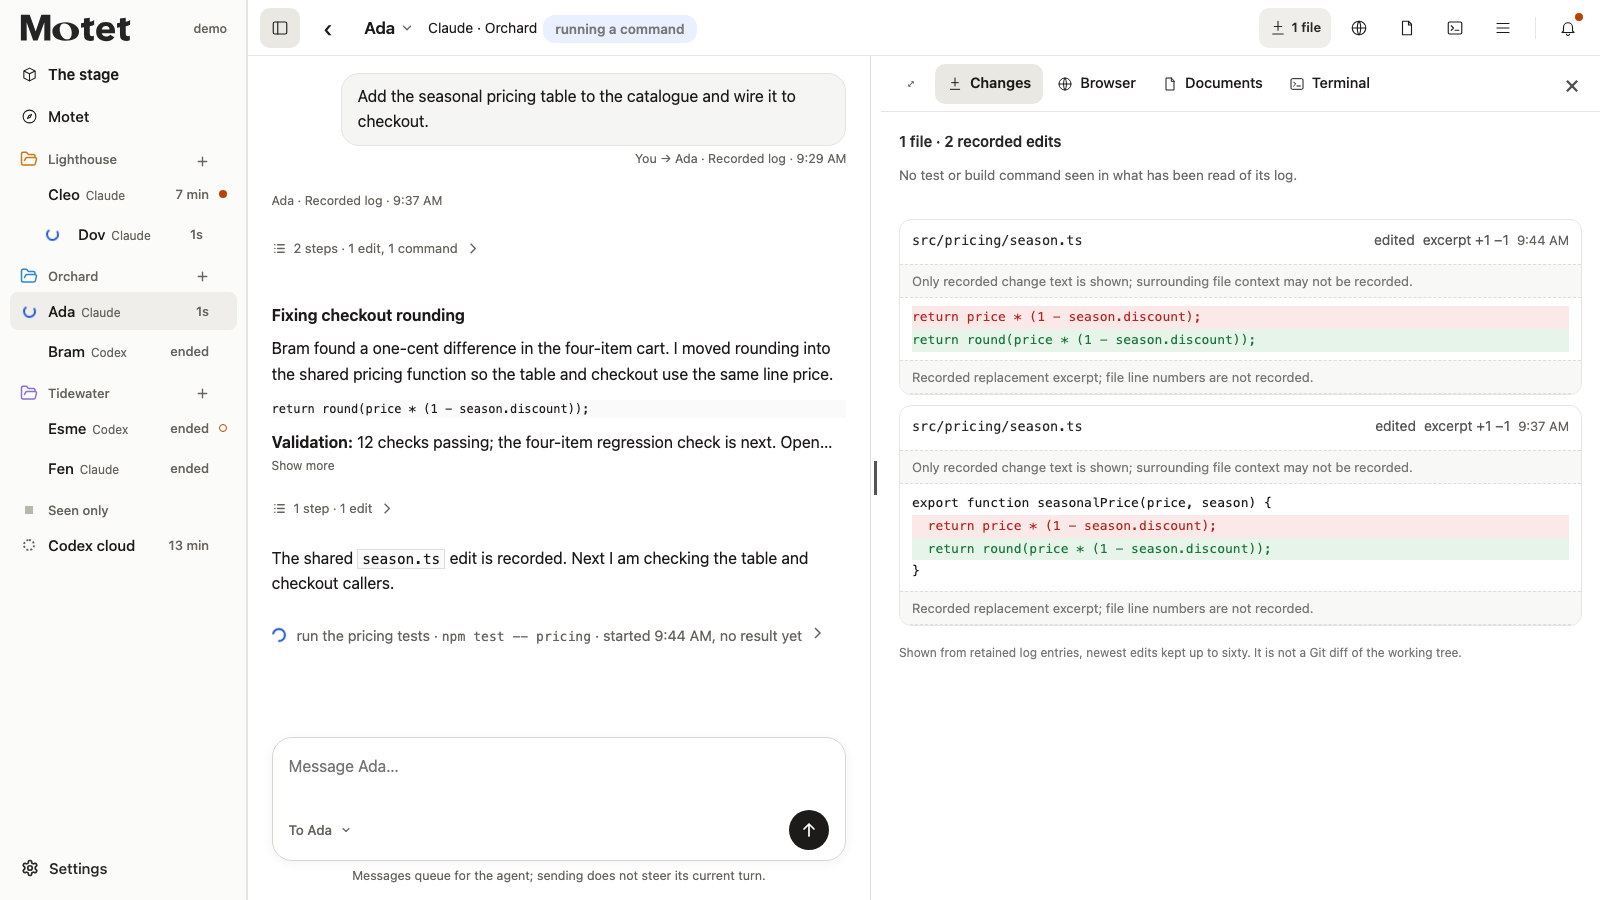
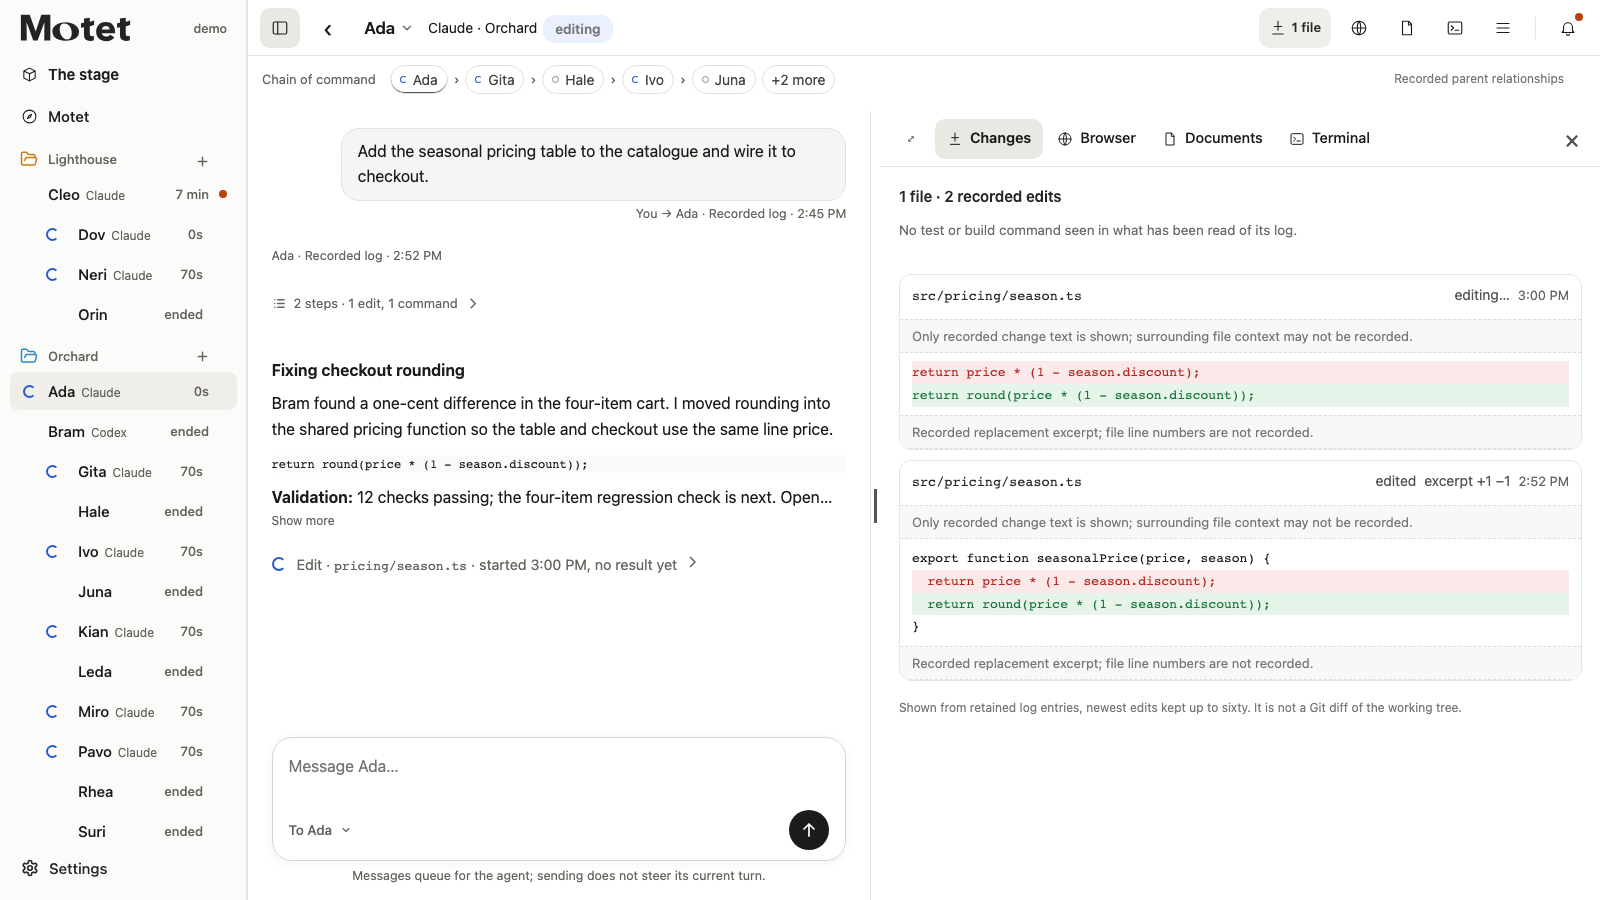
Make Workspace demo captures repeatable and refresh the pictures

diff --git a/brand/tools/capture-demo.js b/brand/tools/capture-demo.js
@@ -1,30 +1,228 @@
-// Run with Playwright available in NODE_PATH and src/web served on localhost:18794.
-const {chromium}=require('playwright');
-const fs=require('fs');const path=require('path');
-(async()=>{
- const browser=await chromium.launch({headless:true,executablePath:'/Applications/Google Chrome.app/Contents/MacOS/Google Chrome'});
- const page=await browser.newPage({viewport:{width:1600,height:825},deviceScaleFactor:1});
- await page.addInitScript(()=>{if(window===window.top)localStorage.setItem('liveRoomHinted','1')});
- const errors=[];page.on('pageerror',e=>errors.push(String(e)));
- await page.goto('http://127.0.0.1:18794/?demo');await page.waitForTimeout(1800);
- const root=path.resolve(__dirname,'../..');
- const out=path.join(root,'docs/media');
- await page.screenshot({path:path.join(out,'demo-room.png')});
- const geometry=await page.locator('#mark').evaluate(e=>({width:e.getBoundingClientRect().width,height:e.getBoundingClientRect().height,loaded:e.complete&&e.naturalWidth>0,url:e.getAttribute('src')}));
- await page.evaluate(()=>{cam.yaw=pos['c:demo-cleo'].a;apply();});await page.waitForTimeout(700);
- await page.evaluate(()=>setPeek('c:demo-cleo'));await page.waitForTimeout(1000);
- await page.screenshot({path:path.join(out,'demo-held.png')});
- await page.evaluate(()=>setFocus('c:demo-cleo'));await page.waitForTimeout(1200);
- await page.screenshot({path:path.join(out,'demo-desk.png')});
- await page.evaluate(()=>setFocus(null));await page.waitForTimeout(700);
- const frames=fs.mkdtempSync('/tmp/watch-brand-demo-');
- for(let i=0;i<60;i++){
-  if(i===15)await page.evaluate(()=>setPeek('c:demo-cleo'));
-  if(i===30)await page.evaluate(()=>setFocus('c:demo-cleo'));
-  if(i===50)await page.evaluate(()=>setFocus(null));
-  await page.screenshot({path:path.join(frames,`${String(i).padStart(3,'0')}.png`)});await page.waitForTimeout(100);
- }
- console.log(JSON.stringify({geometry,errors,frames}));
- await browser.close();
- if(errors.length)process.exitCode=1;
-})().catch(e=>{console.error(e);process.exit(1)});
+// Capture the built-in fictional demo with an installed Playwright and browser.
+// Usage is documented in capture-demo.md. This script never starts the Motet server.
+const assert = require('node:assert/strict');
+const crypto = require('node:crypto');
+const fs = require('node:fs');
+const http = require('node:http');
+const path = require('node:path');
+const os = require('node:os');
+const {execFileSync} = require('node:child_process');
+const {chromium} = require('playwright');
+
+const root = path.resolve(__dirname, '../..');
+const web = path.join(root, 'src/web');
+const fixedTime = Date.parse('2026-11-20T15:00:00.000Z');
+const forbiddenPorts = new Set([8793, 18879, 18959]);
+
+function argumentsForCapture(argv) {
+  const options = {browser: process.env.MOTET_CAPTURE_BROWSER, port: 0};
+  const names = new Set(['browser', 'output', 'phone', 'metadata', 'port']);
+  for (let index = 0; index < argv.length; index += 2) {
+    const name = argv[index]?.replace(/^--/, '');
+    if (!argv[index]?.startsWith('--') || !names.has(name) || !argv[index + 1]) {
+      throw Error('Use --browser, --output, --phone, --metadata and optional --port.');
+    }
+    options[name] = argv[index + 1];
+  }
+  for (const name of ['browser', 'output', 'phone', 'metadata']) {
+    if (!options[name]) throw Error('Missing --' + name + '.');
+    options[name] = path.resolve(options[name]);
+  }
+  options.port = Number(options.port);
+  if (!Number.isInteger(options.port) || options.port < 0 || options.port > 65535 || forbiddenPorts.has(options.port)) {
+    throw Error('Choose port 0 or an unoccupied port other than 8793, 18879 or 18959.');
+  }
+  for (const name of ['phone', 'metadata']) {
+    if (options[name] === root || options[name].startsWith(root + path.sep)) {
+      throw Error('--' + name + ' must be in a private scratch folder outside the repository.');
+    }
+  }
+  return options;
+}
+
+function initializeCapture({timestamp}) {
+  if (window !== window.top) return;
+  const NativeDate = Date;
+  class CaptureDate extends NativeDate {
+    constructor(...args) { super(...(args.length ? args : [timestamp])); }
+    static now() { return timestamp; }
+  }
+  window.Date = CaptureDate;
+  // demo() emits its first tick immediately. Keep that exact fictional moment.
+  const interval = window.setInterval.bind(window);
+  window.setInterval = (callback, delay, ...args) => {
+    if (delay === 3500 || delay === 3000) return 0;
+    return interval(callback, delay, ...args);
+  };
+  window.captureAudit = [];
+  const refuse = name => () => {
+    window.captureAudit.push(name);
+    throw Error('Unexpected operation during demo capture: ' + name);
+  };
+  window.fetch = refuse('fetch');
+  XMLHttpRequest.prototype.open = refuse('XMLHttpRequest');
+  window.EventSource = refuse('EventSource');
+  window.WebSocket = refuse('WebSocket');
+  window.Worker = refuse('Worker');
+  window.SharedWorker = refuse('SharedWorker');
+  navigator.sendBeacon = refuse('sendBeacon');
+  if (navigator.serviceWorker) navigator.serviceWorker.register = refuse('serviceWorker.register');
+  if (navigator.mediaDevices) {
+    navigator.mediaDevices.getUserMedia = refuse('getUserMedia');
+    navigator.mediaDevices.getDisplayMedia = refuse('getDisplayMedia');
+  }
+  if (navigator.permissions) navigator.permissions.query = refuse('permissions.query');
+  if (navigator.geolocation) {
+    navigator.geolocation.getCurrentPosition = refuse('geolocation');
+    navigator.geolocation.watchPosition = refuse('geolocation.watch');
+  }
+  class CaptureNotification {
+    static permission = 'default';
+    static requestPermission = refuse('Notification.requestPermission');
+    constructor() { refuse('Notification')(); }
+  }
+  window.Notification = CaptureNotification;
+  window.open = refuse('window.open');
+  Storage.prototype.setItem = refuse('storage.setItem');
+  Storage.prototype.removeItem = refuse('storage.removeItem');
+  Storage.prototype.clear = refuse('storage.clear');
+}
+
+async function settled(page) {
+  await page.evaluate(async () => {
+    await document.fonts.ready;
+    await Promise.all([...document.images].map(image => image.decode().catch(() => {})));
+  });
+  let previous = '', unchanged = 0;
+  for (let sample = 0; sample < 60; sample++) {
+    const signature = await page.evaluate(() => JSON.stringify(
+      [...document.querySelectorAll('#world, .st, #compactDesk')].map(element => {
+        const box = element.getBoundingClientRect();
+        return [getComputedStyle(element).transform, box.x, box.y, box.width, box.height];
+      })
+    ));
+    unchanged = signature === previous ? unchanged + 1 : 0;
+    if (unchanged >= 4) return;
+    previous = signature;
+    await page.waitForTimeout(100);
+  }
+  throw Error('The stage transforms did not settle.');
+}
+
+async function capture(options) {
+  const requests = [], violations = [], failures = [], errors = [], screenshots = [];
+  const staticPaths = new Set(['/', ...fs.readdirSync(web).filter(name => /\.(?:js|css|html)$/.test(name)).map(name => '/' + name),
+    ...fs.readdirSync(path.join(web, 'static')).map(name => '/static/' + name)]);
+  const types = {'.html': 'text/html', '.js': 'text/javascript', '.css': 'text/css',
+    '.svg': 'image/svg+xml', '.png': 'image/png', '.ico': 'image/x-icon', '.woff2': 'font/woff2'};
+  const server = http.createServer((request, response) => {
+    try {
+      const url = new URL(request.url, 'http://127.0.0.1');
+      const name = url.pathname === '/' ? 'index.html' : decodeURIComponent(url.pathname.slice(1));
+      const file = fs.realpathSync(path.resolve(web, name));
+      const type = types[path.extname(file)];
+      if (request.method !== 'GET' || !staticPaths.has(url.pathname) || !file.startsWith(web + path.sep) || !type || !fs.statSync(file).isFile()) {
+        throw Error('Unexpected static request.');
+      }
+      response.writeHead(200, {'Content-Type': type, 'Cache-Control': 'no-store'});
+      response.end(fs.readFileSync(file));
+    } catch {
+      violations.push({method: request.method, path: request.url});
+      response.writeHead(404).end();
+    }
+  });
+  let browser;
+  try {
+    await new Promise((resolve, reject) => {
+      server.once('error', reject);
+      server.listen(options.port, '127.0.0.1', resolve);
+    });
+    const port = server.address().port;
+    assert(!forbiddenPorts.has(port), 'The assigned port must be outside the reserved set.');
+    const origin = 'http://127.0.0.1:' + port;
+    browser = await chromium.launch({headless: true, executablePath: options.browser,
+      args: ['--disable-gpu', '--force-color-profile=srgb']});
+    const context = await browser.newContext({viewport: {width: 1600, height: 900}, deviceScaleFactor: 1,
+      locale: 'en-US', timezoneId: 'UTC', colorScheme: 'light', reducedMotion: 'reduce',
+      permissions: [], acceptDownloads: false});
+    await context.addInitScript(initializeCapture, {timestamp: fixedTime});
+    await context.route('**/*', async route => {
+      const request = route.request(), url = new URL(request.url());
+      requests.push({method: request.method(), path: url.pathname});
+      if (url.origin !== origin || request.method() !== 'GET' || !staticPaths.has(url.pathname)) {
+        violations.push({method: request.method(), origin: url.origin, path: url.pathname});
+        await route.abort();
+      } else await route.continue();
+    });
+    const page = await context.newPage();
+    page.on('pageerror', error => errors.push(error.message));
+    page.on('requestfailed', request => failures.push({path: new URL(request.url()).pathname,
+      error: request.failure()?.errorText}));
+    page.on('dialog', async dialog => { violations.push({dialog: dialog.type()}); await dialog.dismiss(); });
+    await page.goto(origin + '/?ui=workspace&demo', {waitUntil: 'load'});
+    await page.waitForFunction(() => typeof A !== 'undefined' && Object.keys(A).length === 22);
+    await page.mouse.move(1599, 0);
+    const cast = await page.evaluate(() => Object.values(A).map(agent => ({id: agent.id, name: agent.name,
+      parent: agent.parent || null, project: proj(agent.id), turn: agent.turn, observed: !!agent.observed})));
+    const domain = () => page.evaluate(() => JSON.stringify(Object.values(A).map(agent => ({
+      id: agent.id, name: agent.name, parent: agent.parent || null, sub: !!agent.sub,
+      runtime: agent.runtime, cwd: agent.cwd, turn: agent.turn, observed: agent.observed,
+      calls: agent.calls, permissions: agent.perms, story: agent.story
+    })), (name, value) => value instanceof Node ? undefined : value));
+    const initialDomain = await domain();
+    const stateSha256 = crypto.createHash('sha256').update(initialDomain).digest('hex');
+    const shot = async (name, destination) => {
+      await settled(page);
+      assert.equal(await domain(), initialDomain, 'The fictional cast and moment must match at every capture.');
+      await page.screenshot({path: destination, animations: 'disabled', caret: 'hide'});
+      const bytes = fs.readFileSync(destination);
+      const view = await page.evaluate(() => ({viewport: {width: innerWidth, height: innerHeight},
+        horizontalOverflow: document.documentElement.scrollWidth > innerWidth,
+        focus: typeof focus === 'string' ? focus : null,
+        panel: typeof WSP !== 'undefined' ? WSP.mode : null}));
+      screenshots.push({name, view, stateSha256, width: bytes.readUInt32BE(16), height: bytes.readUInt32BE(20),
+        sha256: crypto.createHash('sha256').update(bytes).digest('hex')});
+    };
+    fs.mkdirSync(options.output, {recursive: true});
+    fs.mkdirSync(path.dirname(options.phone), {recursive: true});
+    await shot('workspace-room.png', path.join(options.output, 'workspace-room.png'));
+    await page.evaluate(() => setFocus('c:demo-ada'));
+    await page.locator('#workspacePanels [data-panel="changes"]').click();
+    await shot('workspace-desk.png', path.join(options.output, 'workspace-desk.png'));
+    await page.setViewportSize({width: 390, height: 844});
+    await page.evaluate(() => { if (DESK.open) deskCloseWork(); });
+    await page.mouse.move(389, 0);
+    await shot('workspace-desk-phone.png', options.phone);
+    await page.setViewportSize({width: 1600, height: 900});
+    await page.evaluate(() => workspaceOfficerDeskOpen());
+    await page.locator('#ofQuick [data-q="Who is waiting on me?"]').click();
+    await page.waitForFunction(() => !OF.busy && ofLog.textContent.includes('Scripted demo answer'));
+    await page.evaluate(() => { ofLog.scrollTop = 0; });
+    await page.mouse.move(1599, 0);
+    await shot('workspace-motet.png', path.join(options.output, 'workspace-motet.png'));
+    violations.push(...await page.evaluate(() => window.captureAudit));
+    assert.deepEqual({violations, failures, errors}, {violations: [], failures: [], errors: []}, 'Demo capture audit');
+    const metadata = {schemaVersion: 1, recipe: 'workspace-full-stage-v1',
+      commit: execFileSync('git', ['rev-parse', 'HEAD'], {cwd: root, encoding: 'utf8'}).trim(),
+      sourceSha256: crypto.createHash('sha256').update(fs.readFileSync(path.join(web, 'index.html'))).digest('hex'),
+      platform: {name: process.platform, architecture: process.arch, release: os.release(), node: process.version},
+      fonts: await page.evaluate(() => [...new Set([...document.querySelectorAll('body, button, textarea, code')].map(element => getComputedStyle(element).fontFamily))].sort()),
+      browser: browser.version(), browserArguments: ['--disable-gpu', '--force-color-profile=srgb'], playwright: require('playwright/package.json').version,
+      fixedTime: new Date(fixedTime).toISOString(), initialDemoTicks: 1, deviceScaleFactor: 1,
+      locale: 'en-US', timezone: 'UTC', reducedMotion: 'reduce', cast, screenshots, requests,
+      audit: {violations, failures, errors}};
+    fs.mkdirSync(path.dirname(options.metadata), {recursive: true});
+    fs.writeFileSync(options.metadata, JSON.stringify(metadata, null, 2) + '\n');
+    console.log(JSON.stringify({agents: cast.length, browser: metadata.browser, screenshots, audit: metadata.audit}));
+  } finally {
+    if (browser) await browser.close();
+    await new Promise(resolve => server.close(resolve));
+  }
+}
+
+if (process.argv.includes('--help')) {
+  console.log('node brand/tools/capture-demo.js --browser <installed-chromium> --output <folder> --phone <private-png> --metadata <private-json> [--port 0]');
+} else Promise.resolve().then(() => capture(argumentsForCapture(process.argv.slice(2)))).catch(error => {
+  console.error(error.message);
+  process.exitCode = 1;
+});

diff --git a/brand/tools/capture-demo.md b/brand/tools/capture-demo.md
@@ -1,0 +1,33 @@
+# Workspace demo captures
+
+Run this recipe after the demo data has passed review. It captures the built-in fictional demo from the current checkout and never runs the application server. An existing Playwright package and an installed Chromium browser are required. Set `NODE_PATH` when Playwright is provided by a separate local runtime.
+
+```sh
+node brand/tools/capture-demo.js \
+  --browser /path/to/installed/chromium \
+  --output /path/to/private/capture-folder \
+  --phone /path/to/private/capture-folder/workspace-desk-phone.png \
+  --metadata /path/to/private/capture-folder/capture.json
+```
+
+The output folder receives `workspace-room.png`, `workspace-desk.png` and `workspace-motet.png`, each at 1600 × 900. The phone capture is Ada's conversation at 390 × 844. Review every picture before copying the three desktop files into `docs/media/`. The phone image and metadata belong in a private scratch folder outside the checkout.
+
+The recipe binds its own static server to `127.0.0.1` on an automatically assigned port. An optional `--port` selects a spare port. It refuses 8793, 18879 and 18959. The browser binary can also be supplied through `MOTET_CAPTURE_BROWSER`.
+
+Each run uses a fresh browser context, scale factor 1, English labels, UTC, light theme and reduced motion. Chromium runs with software rendering and an sRGB color profile. A script injected before page startup fixes the clock at 20 November 2026, 15:00 UTC and holds the demo at its first synthetic tick. The product's source, styles, camera settings and interactions are used as written. The script waits for fonts, image decoding and settled stage transforms. It moves the pointer above the stage and hides the text caret while capturing.
+
+The sequence is the stage, Ada's Changes panel, Ada's phone conversation, then Motet's desk answering “Who is waiting on me?” from the same fictional moment. Network requests are restricted to static files on the temporary server. Dynamic fetches, connections, storage writes, microphone access, notification requests and other permission calls fail the capture audit. Before every picture, the recipe checks that the cast, parent relationships, turns, commands, permissions and recorded stories still match the first picture. The JSON metadata records the commit, source hash, actual browser and Playwright versions, operating system, computed font families, clock, cast, request paths, audit and image hashes. Review the audit before publication.
+
+Repeat captures using the same commit, browser build, Playwright version and operating-system fonts. Runtime metadata identifies those conditions. Matching output across different browser or font environments is not guaranteed. The six Classic images in `docs/TOUR.md` have a separately approved later recapture step.
+
+## Check inertness and compare the baseline
+
+With an existing Playwright runtime available, the companion check compares the current page with a private export of the seven-agent baseline.
+
+```sh
+node brand/tools/check-demo.cjs \
+  --baseline /path/to/private/baseline/src/web \
+  --output /path/to/private/demo-check.json
+```
+
+It observes the demo's guarded operations and profiles the real scripted tick plus render, and navigation across two animation frames. The automatic 3500 ms tick is suppressed and its real callback is invoked for each timing sample. Two paired runs reverse the baseline/candidate order and omit four warmups per run. The report records CPU and navigation latency samples, median and p95. Those measurements are not a frames-per-second benchmark.

diff --git a/README.md b/README.md
@@ -15,7 +15,7 @@
 </p>
 
 <p align="center">
-  <img src="docs/media/workspace-room.png" width="1000" alt="The Motet stage in the Workspace interface. A sidebar lists fictional agents under three projects, each with the app it runs in and a time or the word ended; one has an orange dot because it needs you. On the stage, the agents' screens stand side by side on a light floor. Motet's question box sits at the bottom with three suggested questions.">
+  <img src="docs/media/workspace-room.png" width="1000" alt="The Motet stage in Workspace with 22 fictional agents. Large front monitors and smaller child monitors form several rows on a light floor, with project names below and edge stations partly outside the view. The sidebar groups agents by project. Motet's question box and three suggested questions sit at the bottom.">
 </p>
 
 You have several agents playing at once: Claude Code on one part, Codex on another, Cursor on a third. Each is good alone, but nobody is keeping them together. You find out an agent stopped to ask a question twenty minutes after it asked.
@@ -61,7 +61,7 @@ When you want to look for yourself, every agent is in view.
 - **Bring a player in.** Message an agent from its desk, hand it a PDF or a picture, or start a fresh Codex chat in a project's folder, including a folder you add yourself.
 - **Catch the wrong note.** A command that looks like a deploy, a push, a delete or a send is flagged as it happens. You choose the words it listens for.
 
-<p align="center"><img src="docs/media/workspace-desk.png" width="1000" alt="Ada's desk in Workspace. The conversation is on the left: your request, a folded run of steps, Ada's update and a command still running. The Changes panel on the right shows two recorded edits to one file as short red and green excerpts, each noting that only the recorded change text is shown."></p>
+<p align="center"><img src="docs/media/workspace-desk.png" width="1000" alt="Ada's desk in Workspace. The chain of command shows Ada and her fictional children. The conversation on the left contains your pricing request, a folded run of steps, Ada's rounding update and an edit in progress. The Changes panel on the right shows two recorded edits to one file as red and green excerpts."></p>
 <p align="center"><sub><b>A desk.</b> The conversation, with the work it produced beside it. Fictional demo data.</sub></p>
 
 ## Bring the subscriptions you already have

diff --git a/docs/TOUR.md b/docs/TOUR.md
@@ -17,7 +17,7 @@ The [plain address](http://127.0.0.1:8793/) opens Workspace on desktop and phone
 
 Workspace brings the stage sidebar, notification bell, monitor contents, conversation desks and Settings into one light interface. Stage movement and interactions stay the same. The bottom caption strip is omitted; each agent’s sidebar tooltip carries its caption and recorded or inferred qualifications. Opening the notification bell shows existing requests and recorded alerts. The **Notify me** control remains separate in Settings.
 
-<p align="center"><img src="media/workspace-desk.png" width="1000" alt="Ada's desk in Workspace. The conversation is on the left: your request, a folded run of steps, Ada's update and a command still running. The Changes panel on the right shows two recorded edits to one file as short red and green excerpts, each noting that only the recorded change text is shown."></p>
+<p align="center"><img src="media/workspace-desk.png" width="1000" alt="Ada's desk in Workspace. The chain of command shows Ada and her fictional children. The conversation on the left contains your pricing request, a folded run of steps, Ada's rounding update and an edit in progress. The Changes panel on the right shows two recorded edits to one file as red and green excerpts."></p>
 <p align="center"><sub><b>An agent's desk in Workspace.</b> The conversation on the left, recorded changes on the right. Fictional demo data.</sub></p>
 
 Choose **Motet** in the sidebar for its desk. **Recorded days · UTC** opens retained Motet questions and answers when memory recording has captured them. Saved days are read-only: browsing them makes no model call and cannot retry, apply or send anything. Coverage can be partial, not recorded, expired or unavailable. Return to the current window to continue your conversation; its draft stays in place.
